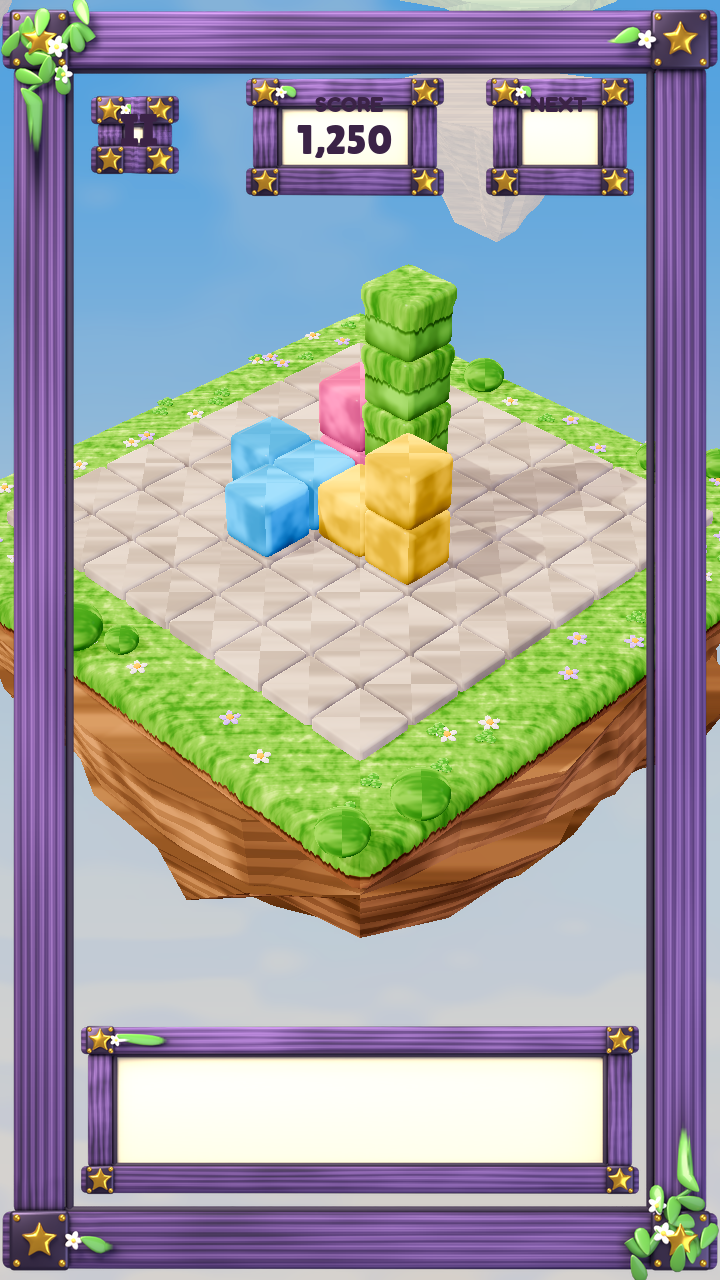
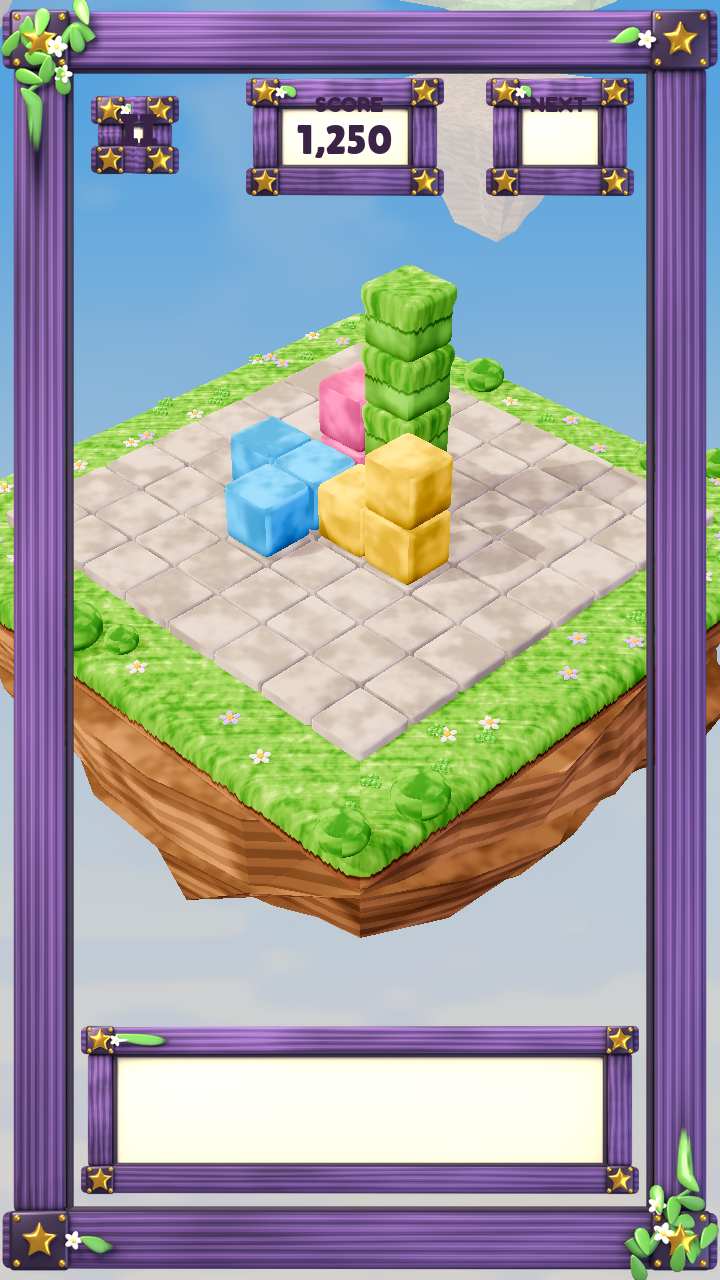
wip(art): agent output (style R&D, screens, blocks)
Story: art bible v2 (design/art/art-bible.md)

Claude-Session: https://claude.ai/code/session_015gA98JmmjSJ5ZLv762bPy3

diff --git a/prototypes/style_rnd/make_side_by_side.py b/prototypes/style_rnd/make_side_by_side.py
@@ -1,0 +1,31 @@
+# Builds the labelled reference-vs-prototype evidence images. Run: python3 prototypes/style_rnd/make_side_by_side.py
+import os
+from PIL import Image, ImageDraw, ImageFont
+R = "assets/art/reference/style/"
+E = "production/qa/evidence/style-rnd/"
+FONT = ImageFont.truetype("prototypes/style_rnd/fonts/LilitaOne-Regular.ttf", 30)
+
+def pair(ref, ref_box, ours, ours_box, out, h=720, labels=("REFERENCE", "PROTOTYPE (Godot Compatibility)")):
+    a = Image.open(ref).convert("RGB"); a = a.crop(ref_box) if ref_box else a
+    b = Image.open(ours).convert("RGBA"); b = b.crop(ours_box) if ours_box else b
+    if b.mode == "RGBA":
+        bg = Image.new("RGB", b.size, (243, 230, 200)); bg.paste(b, mask=b.split()[3]); b = bg
+    a = a.resize((int(a.width * h / a.height), h)); b = b.resize((int(b.width * h / b.height), h))
+    s = Image.new("RGB", (a.width + b.width + 30, h + 60), (59, 35, 70))
+    s.paste(a, (10, 50)); s.paste(b, (a.width + 20, 50))
+    d = ImageDraw.Draw(s)
+    d.text((14, 8), labels[0], font=FONT, fill=(246, 231, 196)); d.text((a.width + 24, 8), labels[1], font=FONT, fill=(248, 200, 64))
+    s.save(E + out); print("wrote", E + out, s.size)
+
+pair(R + "13_biome_blocks.png", (40, 20, 380, 300), E + "a_block_compat.png", (330, 20, 1000, 640), "a_block_vs_ref13.png", 560)
+pair(R + "05_select_mode_a.jpg", (40, 100, 1160, 880), E + "b_ninepatch_ui.png", None, "b_ninepatch_vs_ref05.png", 560)
+pair(R + "08_settings_options_tall.jpg", (0, 0, 600, 896), "prototypes/style_rnd/renders/frame_purple_vine.png", None, "b_blender_frame_vs_ref08.png", 560, ("REFERENCE", "PROTOTYPE (Blender Cycles render, 1024px)"))
+pair(R + "15_title_and_hud.png", (425, 0, 838, 941), E + "c_island_meadow.png", None, "c_island_meadow_vs_ref15.png", 900)
+pair(R + "15_title_and_hud.png", (843, 0, 1255, 941), E + "c_island_ice.png", None, "c_island_ice_vs_ref15.png", 900)
+# tonemapper strip
+ims = [Image.open(E + "a_tonemap_%s.png" % k).convert("RGB").crop((300, 0, 1000, 720)).resize((350, 360)) for k in ("linear", "filmic", "aces", "agx")]
+s = Image.new("RGB", (1400, 410), (59, 35, 70)); d = ImageDraw.Draw(s)
+for i, (im, k) in enumerate(zip(ims, ("LINEAR", "FILMIC", "ACES", "AGX (chosen)"))):
+    s.paste(im, (i * 350, 50)); d.text((i * 350 + 10, 8), k, font=FONT, fill=(248, 200, 64) if i == 3 else (246, 231, 196))
+s.save(E + "a_tonemap_strip.png"); print("wrote strip")
+for k in ("linear", "filmic", "aces", "agx"): os.remove(E + "a_tonemap_%s.png" % k)
